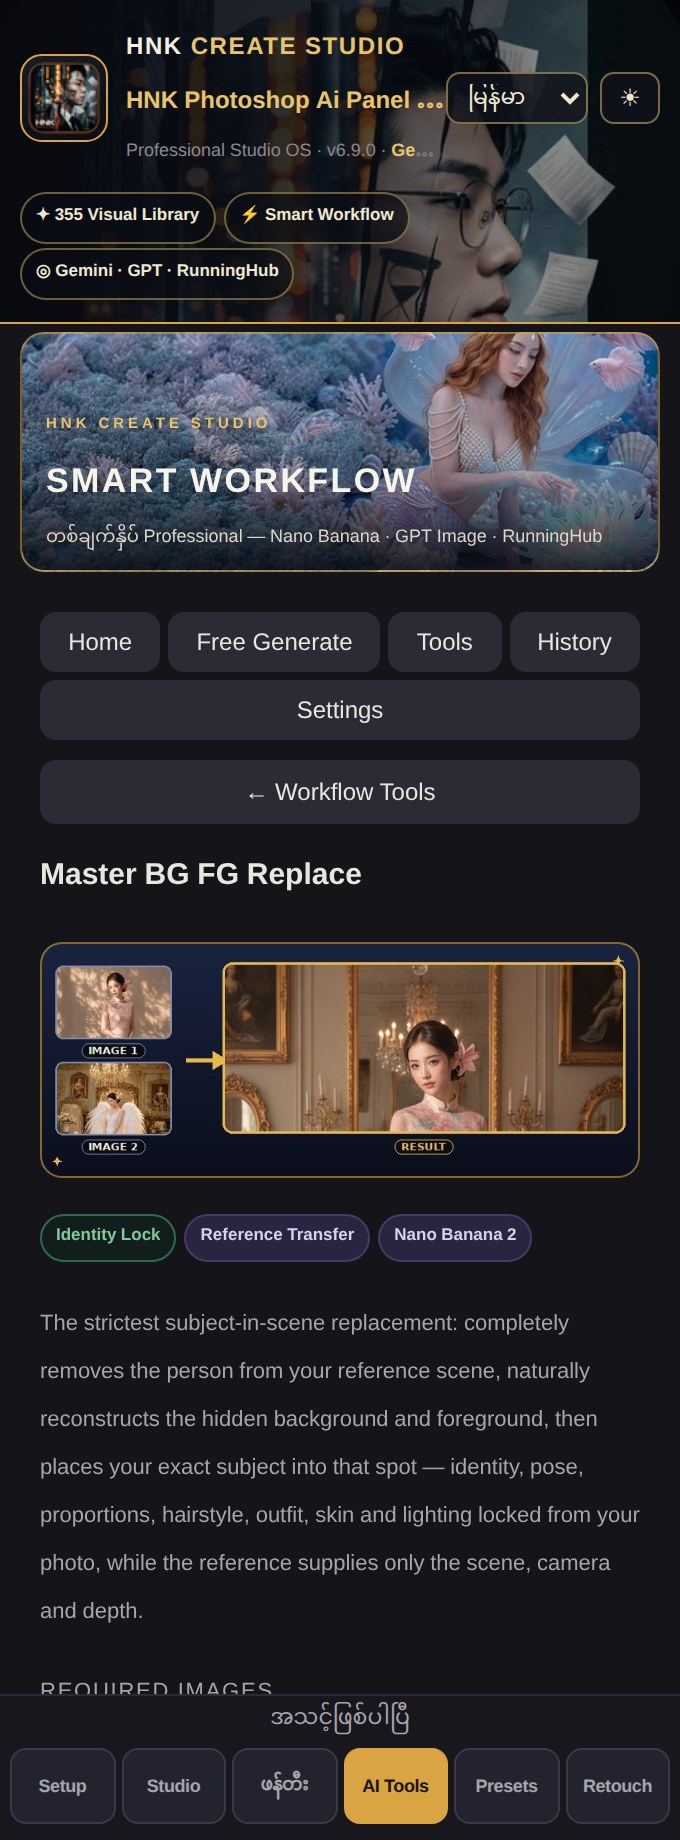
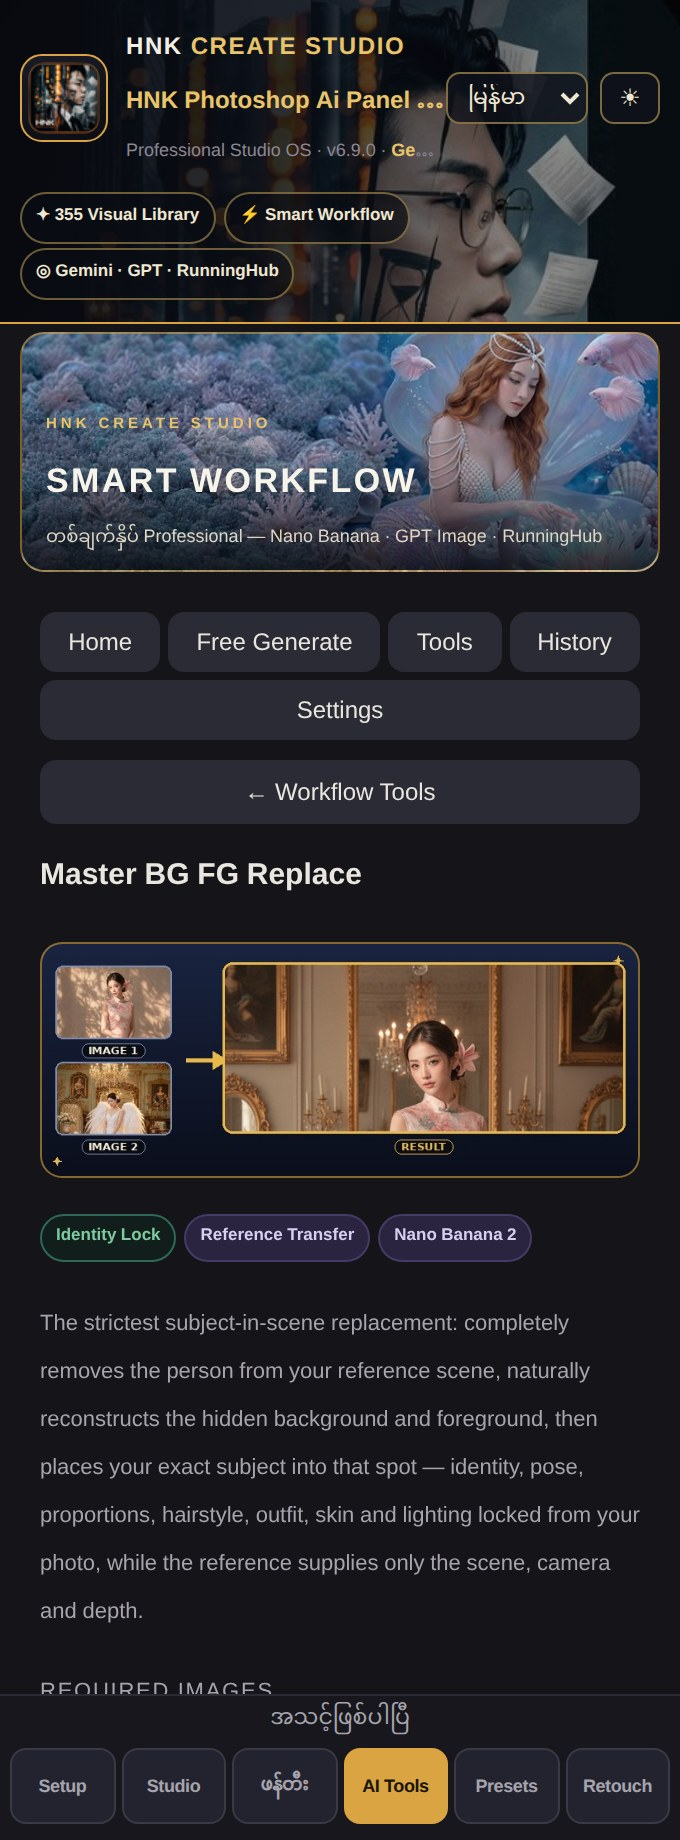
SITE hotfix 3: uncropped mobile hero + head-safe panel screenshot (#144)
- Mobile hero: full 2:1 artwork at natural aspect (width 100%, height
  auto) — zero cropping on phones per user request; desktop overlay +
  scrim unchanged (content restored into the media block).
- Panel screenshot re-shot from the live plugin UI after the banner
  head-crop fixes (PR hnk-ai-v1#42) — superhero and mermaid banners now
  show full heads.
- Version badges re-templated 4.27.0 -> 4.27.1 (9 places + JSON-LD +
  meta) and og-image badge pill repainted to match.

Changed region(s): [[0.0309, 0.1549, 0.9882, 0.3098]]

diff --git a/docs/index.html b/docs/index.html
@@ -5,7 +5,7 @@
 <meta name="viewport" content="width=device-width, initial-scale=1, viewport-fit=cover">
 <meta name="theme-color" content="#000000">
 <title>HNK Create Studio — မြန်မာ Studio တွေအတွက် AI ဓာတ်ပုံစတူဒီယို | AI Photo Studio for Myanmar</title>
-<meta name="description" content="Portrait · Wedding · Graduation — ဖုန်းထဲမှာ Web Studio (v4.27.0 · install မလို · အခမဲ့)၊ Photoshop ထဲမှာ Pro Panel (v6.9.0 · 1,064 tests)။ Visual Library 366 · Smart Workflow 116 · ၉ ဘာသာ။ AI photo studio for Myanmar wedding &amp; portrait studios — free web app plus a professional Photoshop panel.">
+<meta name="description" content="Portrait · Wedding · Graduation — ဖုန်းထဲမှာ Web Studio (v4.27.1 · install မလို · အခမဲ့)၊ Photoshop ထဲမှာ Pro Panel (v6.9.0 · 1,064 tests)။ Visual Library 366 · Smart Workflow 116 · ၉ ဘာသာ။ AI photo studio for Myanmar wedding &amp; portrait studios — free web app plus a professional Photoshop panel.">
 <link rel="canonical" href="https://hlaingkhay28047-svg.github.io/TG/">
 <link rel="icon" href="assets/site/favicon-48.png" sizes="48x48">
 <link rel="apple-touch-icon" href="assets/site/apple-touch-icon.png">
@@ -13,18 +13,18 @@
 <meta property="og:type" content="website">
 <meta property="og:site_name" content="HNK Create Studio">
 <meta property="og:title" content="HNK Create Studio — မြန်မာ Studio တွေအတွက် AI ဓာတ်ပုံစတူဒီယို">
-<meta property="og:description" content="ဖုန်းထဲမှာ Web Studio v4.27.0 (အခမဲ့ · install မလို)၊ Photoshop ထဲမှာ Pro Panel v6.9.0 (1,064 tests)။ Visual Library 366 · Smart Workflow 116 · ၉ ဘာသာ။">
+<meta property="og:description" content="ဖုန်းထဲမှာ Web Studio v4.27.1 (အခမဲ့ · install မလို)၊ Photoshop ထဲမှာ Pro Panel v6.9.0 (1,064 tests)။ Visual Library 366 · Smart Workflow 116 · ၉ ဘာသာ။">
 <meta property="og:url" content="https://hlaingkhay28047-svg.github.io/TG/">
 <meta property="og:image" content="https://hlaingkhay28047-svg.github.io/TG/og-image.jpg">
 <meta property="og:image:width" content="1200">
 <meta property="og:image:height" content="630">
 <meta name="twitter:card" content="summary_large_image">
 <meta name="twitter:title" content="HNK Create Studio — AI ဓာတ်ပုံစတူဒီယို">
-<meta name="twitter:description" content="Web Studio v4.27.0 (အခမဲ့) + Photoshop Panel v6.9.0 — မြန်မာ wedding/portrait studio တွေအတွက် AI ဓာတ်ပုံစတူဒီယို။">
+<meta name="twitter:description" content="Web Studio v4.27.1 (အခမဲ့) + Photoshop Panel v6.9.0 — မြန်မာ wedding/portrait studio တွေအတွက် AI ဓာတ်ပုံစတူဒီယို။">
 <meta name="twitter:image" content="https://hlaingkhay28047-svg.github.io/TG/og-image.jpg">
 <script type="application/ld+json">
 {"@context":"https://schema.org","@graph":[
-{"@type":"WebApplication","name":"HNK Web Studio","applicationCategory":"DesignApplication","operatingSystem":"Any (browser, PWA)","softwareVersion":"4.27.0","inLanguage":["my","en","shn","kac","th","zh","vi","id","ms"],"offers":{"@type":"Offer","price":"0","priceCurrency":"USD"},"url":"https://hlaingkhay28047-svg.github.io/TG/app/"},
+{"@type":"WebApplication","name":"HNK Web Studio","applicationCategory":"DesignApplication","operatingSystem":"Any (browser, PWA)","softwareVersion":"4.27.1","inLanguage":["my","en","shn","kac","th","zh","vi","id","ms"],"offers":{"@type":"Offer","price":"0","priceCurrency":"USD"},"url":"https://hlaingkhay28047-svg.github.io/TG/app/"},
 {"@type":"SoftwareApplication","name":"HNK Photoshop Ai Panel","applicationCategory":"DesignApplication","operatingSystem":"Windows, macOS (Adobe Photoshop 24.2+)","softwareVersion":"6.9.0","downloadUrl":"https://hlaingkhay28047-svg.github.io/TG/download/HNK_Ai_Panel_v6.1.1.ccx","url":"https://hlaingkhay28047-svg.github.io/TG/#panel"}]}
 </script>
 <style>
@@ -82,14 +82,13 @@ h1,h2,h3{font-weight:700;line-height:1.6}
    Mobile: image on top (face fully visible, nothing over it), text below on black.
    Desktop (>=768px): classic overlay — text left, face right, diagonal scrim. */
 .hero{position:relative;display:flex;flex-direction:column;overflow:hidden}
-.hero>img{display:block;width:100%;height:54svh;min-height:300px;object-fit:cover;object-position:47% 30%}
-.hero:after{content:"";position:absolute;left:0;right:0;top:calc(54svh - 90px);height:90px;z-index:1;pointer-events:none;
-  background:linear-gradient(180deg,rgba(0,0,0,0) 0%,var(--ink) 100%)}
+/* mobile: the FULL artwork, untouched — natural 2:1 aspect, zero crop; text below on black */
+.hero>img{display:block;width:100%;height:auto}
 .hero .wrap{position:relative;z-index:2;padding-top:var(--sp-4);padding-bottom:var(--sp-6);width:100%}
 @media (min-width:768px){
   .hero{min-height:88svh;justify-content:flex-end}
-  .hero>img{position:absolute;inset:0;height:100%;min-height:0;object-position:50% 24%;z-index:0}
-  .hero:after{inset:0;top:auto;height:100%;
+  .hero>img{position:absolute;inset:0;height:100%;min-height:0;object-fit:cover;object-position:50% 24%;z-index:0}
+  .hero:after{content:"";position:absolute;inset:0;z-index:1;pointer-events:none;
     background:linear-gradient(102deg,rgba(0,0,0,.88) 0%,rgba(0,0,0,.6) 38%,rgba(0,0,0,.12) 66%,rgba(0,0,0,0) 100%),
                linear-gradient(180deg,rgba(0,0,0,.06) 0%,rgba(0,0,0,.12) 42%,var(--ink) 100%)}
   .hero .wrap{padding-bottom:var(--sp-7)}
@@ -235,7 +234,7 @@ dialog#lb p{text-align:center;color:var(--muted);font-size:var(--fs-xs);margin-t
       <a class="btn btn-dim" href="#panel"><svg class="ic ic-s"><use href="#i-download"/></svg>Photoshop Panel ရယူမယ် (27MB)</a>
     </div>
     <div class="badges">
-      <span class="badge"><i></i>Web Studio v4.27.0</span>
+      <span class="badge"><i></i>Web Studio v4.27.1</span>
       <span class="badge"><i></i>Panel v6.9.0</span>
       <span class="badge"><i></i>updated 2026-08-11</span>
     </div>
@@ -271,9 +270,9 @@ dialog#lb p{text-align:center;color:var(--muted);font-size:var(--fs-xs);margin-t
   <!-- comparison duo -->
   <div class="duo">
     <div class="duo-card">
-      <div class="shot"><img loading="lazy" src="assets/site/shot-home.jpg" alt="HNK Web Studio v4.27.0 — Home စာမျက်နှာ screenshot"></div>
+      <div class="shot"><img loading="lazy" src="assets/site/shot-home.jpg" alt="HNK Web Studio v4.27.1 — Home စာမျက်နှာ screenshot"></div>
       <div class="body">
-        <h3><svg class="ic"><use href="#i-phone"/></svg>Web Studio <span class="en">v4.27.0</span></h3>
+        <h3><svg class="ic"><use href="#i-phone"/></svg>Web Studio <span class="en">v4.27.1</span></h3>
         <ul>
           <li><svg class="ic"><use href="#i-check"/></svg>ဖုန်း/browser မှာတင် — install မလို၊ အခမဲ့</li>
           <li><svg class="ic"><use href="#i-check"/></svg>One-Tap 123 · Visual Library 366 · Smart Workflow 116</li>
@@ -324,7 +323,7 @@ dialog#lb p{text-align:center;color:var(--muted);font-size:var(--fs-xs);margin-t
 <!-- ============ S4 WEB STUDIO DEEP-DIVE ============ -->
 <section id="webstudio">
   <div class="sec-head">
-    <h2><span class="kick lat">WEB STUDIO v4.27.0</span>Browser ထဲမှာတင် — studio တစ်ခုလုံး</h2>
+    <h2><span class="kick lat">WEB STUDIO v4.27.1</span>Browser ထဲမှာတင် — studio တစ်ခုလုံး</h2>
     <div style="display:flex;gap:8px">
       <button class="chev" id="cvPrev" aria-label="နောက်သို့"><svg class="ic ic-r180"><use href="#i-caret"/></svg></button>
       <button class="chev" id="cvNext" aria-label="ရှေ့သို့"><svg class="ic"><use href="#i-caret"/></svg></button>
@@ -441,7 +440,7 @@ dialog#lb p{text-align:center;color:var(--muted);font-size:var(--fs-xs);margin-t
 <footer class="foot">
   <div class="wrap">
     <div class="badges">
-      <span class="badge"><i></i>Web Studio v4.27.0</span>
+      <span class="badge"><i></i>Web Studio v4.27.1</span>
       <span class="badge"><i></i>Panel v6.9.0</span>
       <span class="badge"><i></i>1,064 tests green</span>
       <span class="badge"><i></i>updated 2026-08-11</span>
